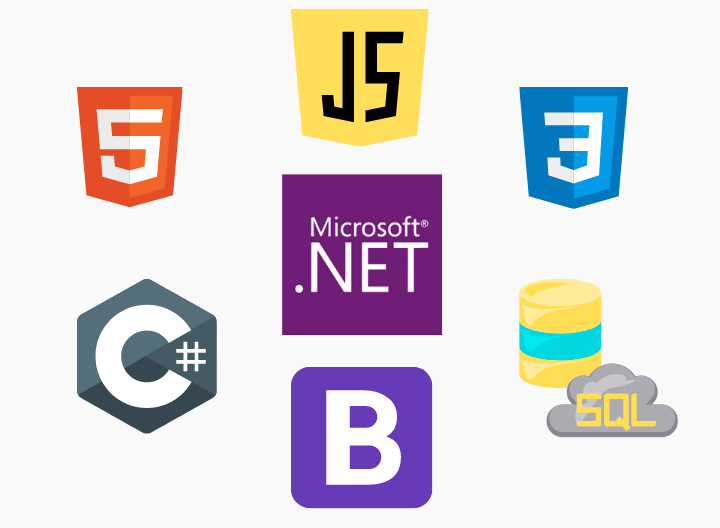
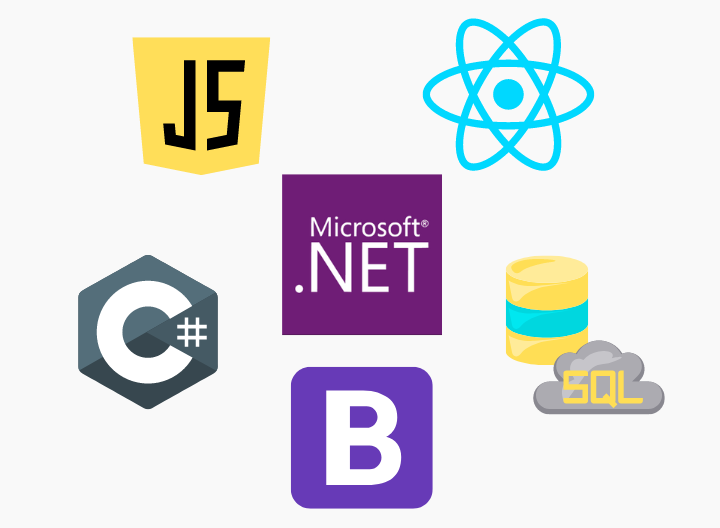
Added new badge

diff --git a/index.html b/index.html
@@ -204,11 +204,11 @@
                   <div class="col-md">
                     <h4>My Skills</h4>
                     <p>
-                      I have experience developing with HTML5, CSS3, and
-                      Bootstrap 4. I also work with OOP languages such as
-                      Java, C#, C, C++, Javascript. When creating web
-                      applications, I've worked with the ASP.NET CORE MVC design pattern
-                      while managing data with Microsoft's Entity Core Framework and PostgreSQL.
+                      I've developed websites with HTML5, CSS3, and
+                      Bootstrap 5, and ReactJS. I also work with OOP languages such as
+                      Java, C#, C++, and Javascript. When creating full stack web applications,
+                      I've worked with the ASP.NET CORE MVC design pattern while managing data
+                      using Microsoft's Entity Framework Core and PostgreSQL.
                     </p>
                     <img id="badges" src="images/badges.png" alt="badges">
                   </div>
@@ -257,36 +257,8 @@
                   </p>
                 </div>
               </div>
-
-              <hr />
-
-
-
-
-              <div class="exprience">
-                <div class="exprience-image">
-                  <img
-                    class="img-fluid"
-                    src="images/experience/LibertyITSolutions.png"
-                    alt="Image"
-                  />
-                </div>
-                <div class="exprience-info">
-                  <h3>.NET Developer</h3>
-                  <h4>Liberty IT Solutions</h4>
-                  <h5>March 2021 - May 2021</h5>
-                  <p>
-                    Collaborate with the Department of Veterans Affairs to create desktop applications
-                    utilizing C#, WPF, .NET CORE, .NET5, and Telerik UI technologies within a Micro Service 
-                    oriented environment. Implement Test Driven Developement practices such as Unit Testing,
-                    Integration testing, and Automated Acceptance Testing to ensure optimal performance. 
-                    Communicate with SQL Server DBAs, System Administrators, Data Storage Engineers, and 
-                    Caché developers to troubleshoot issues. Design, code, test, debug,
-                    and document the developed solutions.
-                  </p>
-                </div>
-              </div>
-
+             
+  
               <hr />
 
               
